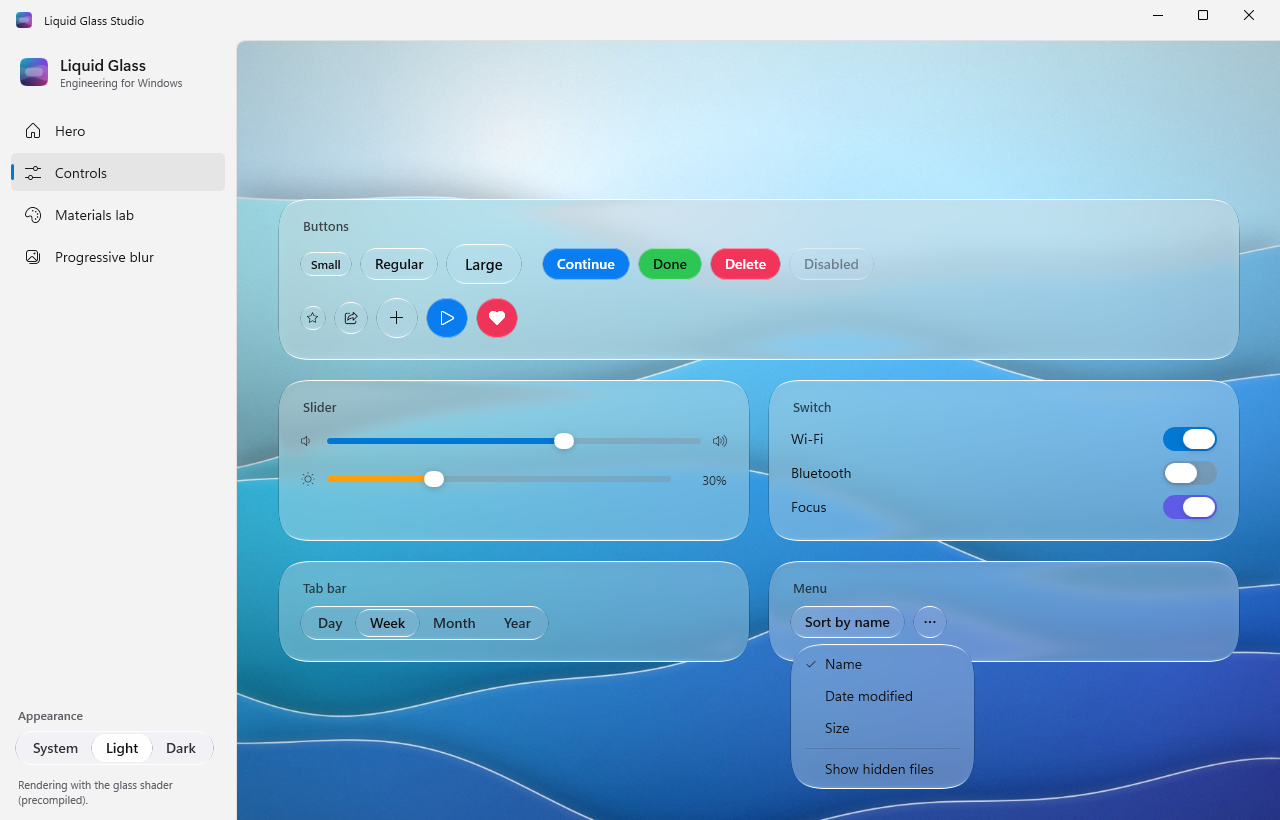
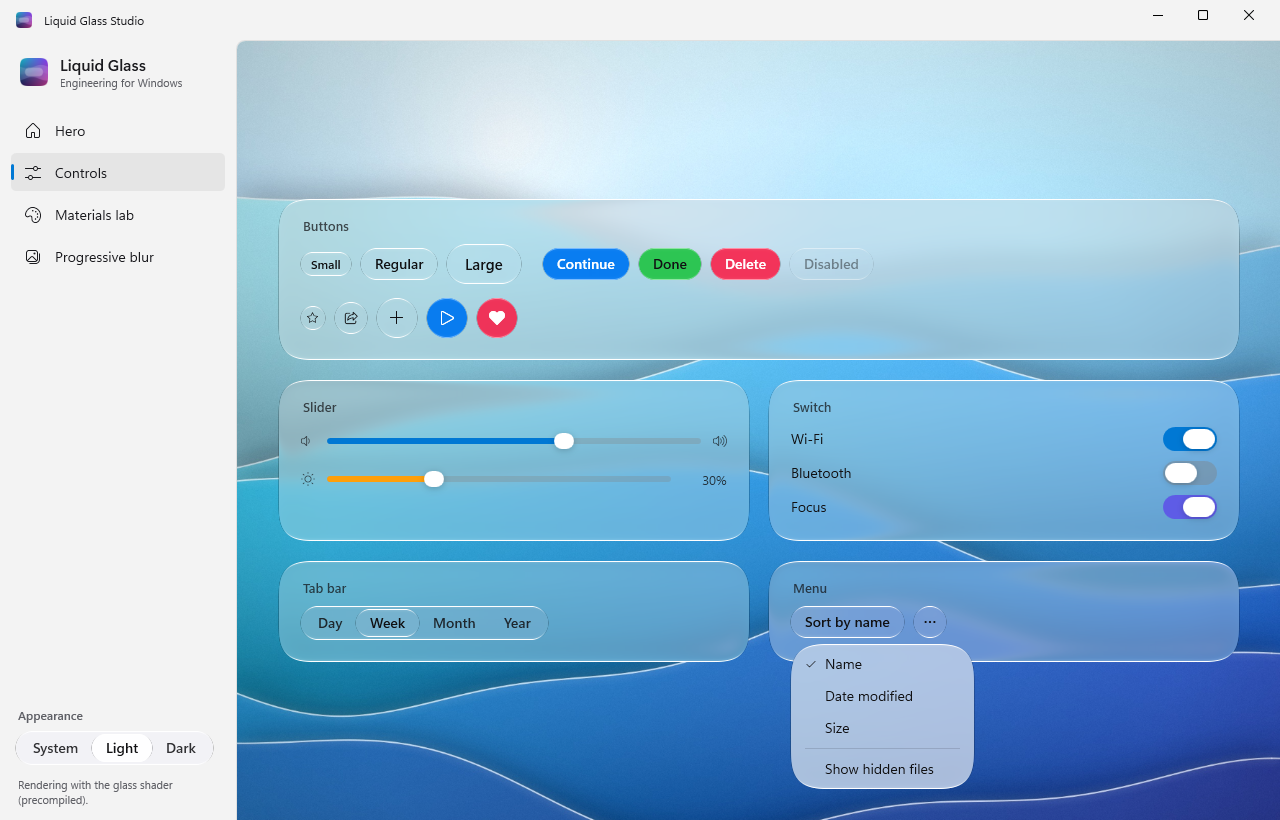
Docs: the WPF guide and the liquid-glass-wpf skill describe the menu panel's legibility backing (its glass mixed halfway toward #F5F5F7 light or #1C1C1E dark, items at 5:1 or more over any backdrop, about 4.8:1 at worst in the fallback material) and the new Core members (GlassOptics.MenuLegibility, 

Changed region(s): [[0.5938, 0.7622, 0.7812, 0.9756]]

diff --git a/plugins/liquid-glass/skills/liquid-glass-wpf/references/api.md b/plugins/liquid-glass/skills/liquid-glass-wpf/references/api.md
@@ -425,17 +425,20 @@ a `ControlBrush` track with a `ControlText` thumb.
 
 ## GlassMenu and GlassMenuItem
 
-`public class GlassMenu : HeaderedItemsControl`: a glass button (`Header` is its content) that opens a menu. The
-panel is a Regular `GlassSurface` (inset 4, min width 160, 6 units from the trigger) that grows out of the trigger on
-the morph spring and collapses back into it. It closes when an item is chosen, on Escape, Alt+F4, a click outside and
-when the window deactivates; Down or Enter on the trigger opens it with the first item focused; arrow keys and Tab
-cycle through items. The panel floats in the enclosing scene's top layer, clamped inside the scene (it cannot leave
-the window), and lines up with the trigger's start edge (in right-to-left layouts too); outside a scene, or when the
-menu sits in the scene's `Content`, it opens in a `Popup` with the opaque material. `IsOpen="True"` set before the
-menu is loaded (in XAML, or from a binding whose source starts true) opens it once it is loaded. Template part:
-`PART_Trigger` (`GlassButton`). Not focusable itself (the trigger is). The menu and its panel are focus scopes, as
-WPF's menus are: a routed command on an item (`ApplicationCommands.Copy`) that nothing in the menu handles goes on to
-the element that has focus in the window (the text box whose selection it copies).
+`public class GlassMenu : HeaderedItemsControl`: a glass button (`Header` is its content) that opens a menu. The panel
+is a Regular `GlassSurface` (inset 4, min width 160, 6 units from the trigger) that grows out of the trigger on the
+morph spring and collapses back into it. Its glass mixes halfway toward a solid backing after the material and tint
+(`GlassOptics.MenuLegibility` 0.5 toward `GlassPalette.LegibilityBacking`: `#F5F5F7` light, `#1C1C1E` dark), so items
+keep at least 5:1 contrast over any backdrop (about 4.8:1 at worst in the fallback material, whose veil approximates
+the tone curve); the trigger and other glass draw without it, and it is not an option. It closes when an item is
+chosen, on Escape, Alt+F4, a click outside and when the window deactivates; Down or Enter on the trigger opens it with
+the first item focused; arrow keys and Tab cycle through items. The panel floats in the enclosing scene's top layer,
+clamped inside the scene (it cannot leave the window), and lines up with the trigger's start edge (in right-to-left
+layouts too); outside a scene, or when the menu sits in the scene's `Content`, it opens in a `Popup` with the opaque
+material. `IsOpen="True"` set before the menu is loaded (in XAML, or from a binding whose source starts true) opens it
+once it is loaded. Template part: `PART_Trigger` (`GlassButton`). Not focusable itself (the trigger is). The menu and
+its panel are focus scopes, as WPF's menus are: a routed command on an item (`ApplicationCommands.Copy`) that nothing
+in the menu handles goes on to the element that has focus in the window (the text box whose selection it copies).
 
 ```csharp
 public GlassMenu()
@@ -698,6 +701,7 @@ public static class GlassOptics
     public const double ContinuousExtent = 1.528;   // corner reach along each edge, relative to the radius
     public const double ContinuousExponent = 3.26;  // superellipse exponent
     public const double LumaRed = 0.213, LumaGreen = 0.715, LumaBlue = 0.072;   // declared as three constants
+    public const double MenuLegibility = 0.5;       // menu panels mix toward GlassPalette.LegibilityBacking; 0 elsewhere
 }
 
 public static class GlassMaterials
@@ -874,13 +878,16 @@ public static class GlassMaterialOptics
     public static Rgb TintColor(Rgb color, Rgb tint, GlassMaterial material)
     public static double TintAlpha(double alpha, GlassMaterial material)
     public static Rgb FrostColor(Rgb frost, Rgb fill, bool dark)
+    public static Rgb LegibilityColor(Rgb color, bool dark, double amount)   // mix(color, LegibilityBacking(dark), amount)
 }
 
 public readonly struct GlassSurfaceOptics
 {
     public GlassSurfaceOptics(double width, double height, GlassRadius radius, GlassMaterial material = GlassMaterial.Clear,
-        bool dark = false, double refraction = GlassOptics.DefaultRefraction, Rgb? tint = null, double pixel = 1.0 / 3, bool nested = false)
-    // Width, Height, Radius, Material, Dark, Refraction, Tint, Pixel, Nested { get; }
+        bool dark = false, double refraction = GlassOptics.DefaultRefraction, Rgb? tint = null, double pixel = 1.0 / 3, bool nested = false,
+        double legibility = 0)   // legibility: GlassOptics.MenuLegibility for a menu panel
+    // Width, Height, Radius, Material, Dark, Refraction, Tint, Pixel, Nested, Legibility { get; }
+    // (the 1.0.0 constructor without legibility is kept, hidden from IntelliSense, for compiled callers)
 }
 public static class GlassPixel
 {
@@ -910,9 +917,12 @@ public static class GlassPalette
     public static Rgba ContrastBorderDark { get; }         // white at 0.28
     public static Rgb ForegroundLight { get; }             // #111113
     public static Rgb ForegroundDark { get; }              // #FFFFFF
+    public static Rgb LegibilityBackingLight { get; }      // #F5F5F7, the menu panel backing
+    public static Rgb LegibilityBackingDark { get; }       // #1C1C1E
     public static Rgba ReducedTransparency(bool dark)
     public static Rgba ContrastBorder(bool dark)
     public static Rgb Foreground(bool dark)
+    public static Rgb LegibilityBacking(bool dark)
     public static Rgb ForegroundOnTint(Rgb tint, GlassMaterial material)  // white or #111113, the higher WCAG contrast with the tinted glass
     public static double RelativeLuminance(Rgb color)                      // WCAG 2
 }

diff --git a/docs/windows.md b/docs/windows.md
@@ -152,9 +152,9 @@ it. The copy is aligned to the surface's exact position (including while it move
 and under rotation, skew or a right-to-left boundary between the scene and the glass) and extends past it as far as
 refraction and frost reach. The glass pixel shader (HLSL, pixel shader 3.0, a
 line-by-line translation of [`spec/shaders/liquid-glass.glsl`](../spec/shaders/liquid-glass.glsl)) then refracts the
-copy through the 20-unit bevel, tones it, adds the rim light and the pointer glow, and WPF composites the result over
-the real backdrop. Regular glass reads a copy frosted by WPF's `BlurEffect` (σ 7.33); the shader adds the wide
-σ 23 fill blur from that frost on a sparse grid.
+copy through the 20-unit bevel, tones it (a menu panel's glass then mixes halfway toward a solid backing), adds the
+rim light and the pointer glow, and WPF composites the result over the real backdrop. Regular glass reads a copy
+frosted by WPF's `BlurEffect` (σ 7.33); the shader adds the wide σ 23 fill blur from that frost on a sparse grid.
 
 The shader ships precompiled by fxc; if the embedded bytecode does not match the embedded HLSL, the library compiles
 the HLSL at run time with `D3DCompile` from `d3dcompiler_47.dll`. `GlassDiagnostics.Describe()` reports which path
@@ -339,6 +339,14 @@ it; Down or Enter on the button opens it with the first item focused, and arrow 
 floats in the enclosing scene (it cannot leave the window); outside a scene it opens in a popup with the opaque
 material.
 
+The panel's glass mixes halfway toward a solid backing, `#F5F5F7` in light appearance and `#1C1C1E` in dark
+([OPTICS §3](../spec/OPTICS.md#legibility-backing-menus)), after its material and tint: it still refracts and frosts
+what lies behind it, at half strength, and its items keep at least 5:1 contrast over any backdrop (5.09:1 for white
+labels over white in dark appearance, where plain Regular glass gave 1.8:1). The trigger and every other glass
+surface draw without the backing. In the fallback material the panel paints the same backing over its veil; the veil
+only approximates the tone curve, so the worst case there is about 4.8:1. The backing is part of the menu, not an
+option: `GlassOptics.MenuLegibility` (0.5) and `GlassPalette.LegibilityBacking` give its values.
+
 ```xml
 <lg:GlassMenu Header="Sort" Placement="Bottom">
   <lg:GlassMenuItem Header="Name" IsCheckable="True" IsChecked="True" />
@@ -390,6 +398,8 @@ the open panel is a Menu named after the menu's current header (raising MenuOpen
 MenuItems with Invoke and, when checkable, Toggle; both choose the item exactly as a click does.
 
 ![A menu grown out of its trigger on the Controls page](images/windows/controls-menu-light.png)
+
+![The same menu in dark appearance, its glass mixed toward #1C1C1E](images/windows/controls-menu-dark.png)
 
 ### GlassProgressiveBlur
 
@@ -503,7 +513,7 @@ Glass never draws nothing and never crashes.
 | Situation | What glass draws |
 | --- | --- |
 | Pixel shader 3.0 in hardware (normal) | The glass shader. |
-| No pixel shader 3.0, a render tier below 2, software rendering (`RenderOptions.ProcessRenderMode = SoftwareOnly`), a window in software mode, a Remote Desktop session that renders in software, fewer than 1024 shader instruction slots | The fallback material: the frosted copy for Regular, a veil fitted to the material's tone curve, the rim light rasterized from the same model as the shader, the pointer glow and focus ring. |
+| No pixel shader 3.0, a render tier below 2, software rendering (`RenderOptions.ProcessRenderMode = SoftwareOnly`), a window in software mode, a Remote Desktop session that renders in software, fewer than 1024 shader instruction slots | The fallback material: the frosted copy for Regular, a veil fitted to the material's tone curve (on a menu panel, the legibility backing over it), the rim light rasterized from the same model as the shader, the pointer glow and focus ring. |
 | `RenderMode="Fallback"` | The fallback material, always. Set it on what you snapshot with `RenderTargetBitmap`: WPF renders snapshots in software, where the shader cannot run, so glass in `Automatic` mode would be missing from the image. |
 | Transparency effects off, `ReduceTransparency`, glass outside a `GlassScene`, glass inside the scene's `Content` | The opaque material with the rim light. |
 | Contrast theme | System colors. |

diff --git a/plugins/liquid-glass/skills/liquid-glass-wpf/SKILL.md b/plugins/liquid-glass/skills/liquid-glass-wpf/SKILL.md
@@ -194,7 +194,7 @@ Full signatures, every default and template part: [references/api.md](references
 | `GlassTabBar` (`ListBox`) / `GlassTabBarItem` (`ListBoxItem`) | Capsule tab bar with a sliding, draggable selection lens in the bar's material | `SelectedIndex` (-1: always set it; once an item is selected one always is), `ItemsSource`, `SelectionChanged`, `Radius` (`capsule`), `Refraction` (NaN: `min(60, 0.75 × shorter side)`), `Tint` (null), `IsInteractive` (true), `Material`, `Appearance`, `Motion`; items 28 tall |
 | `GlassSlider` (`Slider`) | 6-unit track, accent fill, white thumb lifting into glass while dragged | All `Slider` members; `Tint` (null = Windows accent); `IsMoveToPointEnabled` (true) |
 | `GlassSwitch` (`ToggleButton`) | 54 × 24 switch, thumb lifts into glass while pressed; `Content` is the label | `IsChecked`, `Checked`/`Unchecked`; `Tint` (null = Windows accent) |
-| `GlassMenu` (`HeaderedItemsControl`) | Glass trigger button whose Regular panel grows out of it | `Header`, `IsOpen` (false, two-way), `Placement` (`Bottom`), `PanelMaterial` (`Regular`), `PanelRadius` (28, a `GlassRadius`), `Size` (`Regular`), `IsIconOnly` (false), `Tint` (null), `Motion` (inherited), `Opened`/`Closed`, `Close()`; items are `GlassMenuItem` and `Separator` elements, or data from `ItemsSource` (with `ItemTemplate`, `ItemContainerStyle`) |
+| `GlassMenu` (`HeaderedItemsControl`) | Glass trigger button whose Regular panel grows out of it, mixed halfway toward a solid backing so items stay legible | `Header`, `IsOpen` (false, two-way), `Placement` (`Bottom`), `PanelMaterial` (`Regular`), `PanelRadius` (28, a `GlassRadius`), `Size` (`Regular`), `IsIconOnly` (false), `Tint` (null), `Motion` (inherited), `Opened`/`Closed`, `Close()`; items are `GlassMenuItem` and `Separator` elements, or data from `ItemsSource` (with `ItemTemplate`, `ItemContainerStyle`) |
 | `GlassMenuItem` (`ButtonBase`) | A menu command | `Header` (the label, kept current), `Content`, `Icon` (glyph string ok), `InputGestureText` (""), `IsCheckable` (false), `IsChecked` (false), `StaysOpenOnClick` (false), `Click`, `Command`, `Checked`/`Unchecked`; `Separator` between items |
 | `GlassProgressiveBlur` (`FrameworkElement`) | Edge blur band over the backdrop for scrolling content | `Edge` (`Top`), `Size` (80), `Blur` (σ 20, max 33), `Source` (null = scene backdrop) |
 | `GlassGeometry` (static) | Exact continuous-corner outlines as frozen `Geometry` | `Create(Size, GlassRadius)`, `Create(Rect, GlassRadius)`, `Inflate(Rect, GlassRadius, double)`, `InflateRadius(GlassRadius, double)` |
@@ -361,6 +361,9 @@ buttons; the glass re-aligns by itself.
 
 - Clear over imagery; Regular for menus, sheets, compact cards with a few lines of text, and anything large or over
   busy content. Menu panels default to Regular. Long text, settings pages and tables get a solid surface, not glass.
+- Menu panels mix their glass halfway toward a solid backing (`#F5F5F7` light, `#1C1C1E` dark) on their own, so menu
+  text keeps at least 5:1 over any backdrop, even white under dark glass. Don't add a background to the panel or its
+  items to make them readable; the trigger and other glass stay plain glass.
 - `Material` is inherited: a Regular card makes every glass control inside it Regular too. Reset nested controls with
   `lg:GlassScene.Material="Clear"` on the card's inner panel (the demo app does this on every card).
 - `Appearance="Automatic"` follows the Windows app mode live. Over a backdrop that is clearly light or dark, set

diff --git a/platforms/windows/src/LiquidGlass.Core/README.md b/platforms/windows/src/LiquidGlass.Core/README.md
@@ -6,7 +6,8 @@ the shared golden vectors.
 
 - Continuous-corner shapes: corner parameters, signed distance field and outline polygon (`GlassShape`, `GlassRadius`).
 - Refraction through the 20-unit bevel (`GlassRefraction`).
-- Clear and Regular materials, tint and frost (`GlassMaterialOptics`, `GlassMaterials`).
+- Clear and Regular materials, tint, frost and the legibility backing of menu panels (`GlassMaterialOptics`,
+  `GlassMaterials`, `GlassPalette`).
 - Rim light (`GlassRimLight`) and the full per-pixel composite (`GlassPixel`).
 - Closed-form springs (`Spring`, `SpringSolver`, `GlassSprings`), press and drag response (`GlassInteractionModel`) and
   value-control motion (`GlassControlMotion`).
